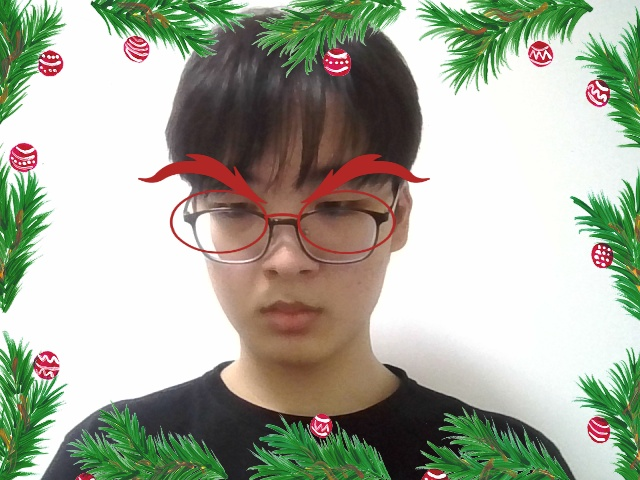
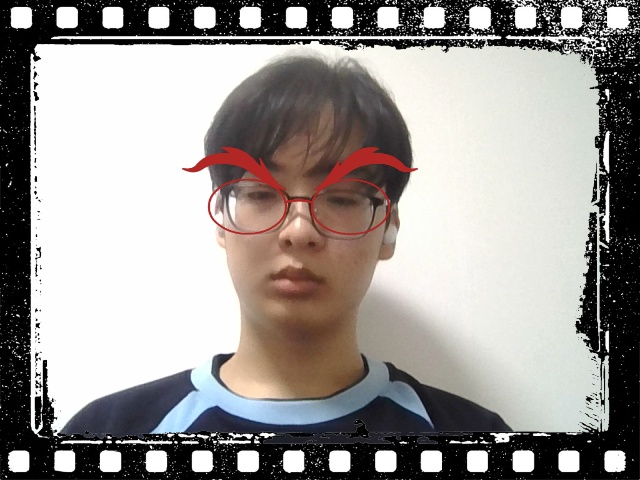
eeeewe

diff --git a/code 최최최최최종본(이였으면 좋겠다)/main.py b/code 최최최최최종본(이였으면 좋겠다)/main.py
@@ -1,10 +1,10 @@
 import cv2
 import mediapipe as mp # 구글에서 불러온 mediapipe 라이브러리 불러오기
 import sys 
-import filter #필터라는 라이브러리가 다른게 또 있네?
-import picture
+import filter,picture,inputPath 
 import numpy as np
 import math
+import asyncio
 
 image_width = 640              
 image_height = 480 
@@ -41,10 +41,9 @@ filter_height = []
 
 
 
-
 with mp_face_mesh.FaceMesh(
         max_num_faces=people_number,
-         refine_landmarks=True,
+        refine_landmarks=True,
         min_detection_confidence=0.5,
         min_tracking_confidence=0.5) as face_mesh: #1.얼굴 감지 갯수,2.랜드마크 정밀 조작,3.얼굴 감지 정확도 최소,4.얼굴 추적 최소 정확도.
     while cap.isOpened():#웹캠 열려있을 때.
@@ -67,15 +66,6 @@ with mp_face_mesh.FaceMesh(
             for i, face_landmarks in enumerate( results.multi_face_landmarks):     
 
                 
-                           
-                if cv2.waitKey(1) & 0xFF == ord('b'):
-                    filter_number = input("필터 다시 정해봐")
-                    filter_image_path = filter.checknumber(filter_number)
-
-                if cv2.waitKey(1) & 0xFF == ord('n'):
-                    frame_number = input('프레임 이미지 다시 정해봐')
-                    frame_image_path = filter.frame_filter(frame_number)
-
 
 
                 x = face_landmarks.landmark[168].x * image_width
@@ -99,7 +89,7 @@ with mp_face_mesh.FaceMesh(
                 rad = math.atan2(a,b)
                 deg = rad*180 //math.pi
                 #print(f'deg{deg}')
-                
+                    
                 if x != None and y != None:
                     if filter_image_path != 0:
                         image = picture.take_pictures_start(filter_image_path,image,
@@ -107,26 +97,35 @@ with mp_face_mesh.FaceMesh(
                         use_number += 1
 
 
-            #if image == None or image == 0:
-            #    breakz
-            
-            #print(image.shape)
+                #if image == None or image == 0:
+                #    breakz
+                
+                #print(image.shape)
+                key = cv2.waitKey(1) & 0xFF
+
+                
+                if key == ord('b'):
+                    filter_number = inputPath.face_filter_input(filter_number)
+                    filter_image_path = filter.checknumber(filter_number)
+
+                if key == ord('n'):
+                    frame_number = inputPath.frame_filter_input(frame_number)
+                    frame_image_path = filter.frame_filter(frame_number)
 
 
-
-            if cv2.waitKey(1) & 0xFF ==ord('p'):
-                count = count + 1
-                picture.pull_image(image,count)
+                if key ==ord('p'):
+                    count = count + 1
+                    picture.pull_image(image,count)
 
 
             cv2.imshow('image', cv2.flip(image, 1))
             if cv2.waitKey(1) & 0xFF == ord('q'):#q를 누르면 while 문 나가기
-            
+                
                 break
-        
-        '''
-            1.영상 촬영 정지
-            2.landmark표시 정지
-            3.그 안에 있는 모든 것.
-        '''
+            
+            '''
+                1.영상 촬영 정지
+                2.landmark표시 정지
+                3.그 안에 있는 모든 것.
+            '''
 cap.release()#비디오 캡쳐 창 끄기(if 문 안에 break대신 넣을 예정)

diff --git a/code 최최최최최종본(이였으면 좋겠다)/inputPath.py b/code 최최최최최종본(이였으면 좋겠다)/inputPath.py
@@ -1,0 +1,22 @@
+import cv2
+import filter
+import asyncio
+
+
+
+
+def face_filter_input(filter_number):
+    input_number = int(input("필터 다시 정해봐"))
+    if -1 <input_number < 3:
+        return input_number
+    else:
+         return filter_number
+        
+def frame_filter_input(frame_number):
+        input_number = int(input('프레임 이미지 다시 정해봐'))
+        if -1 <input_number < 3:
+            return input_number
+        else:
+             return frame_number
+        
+
